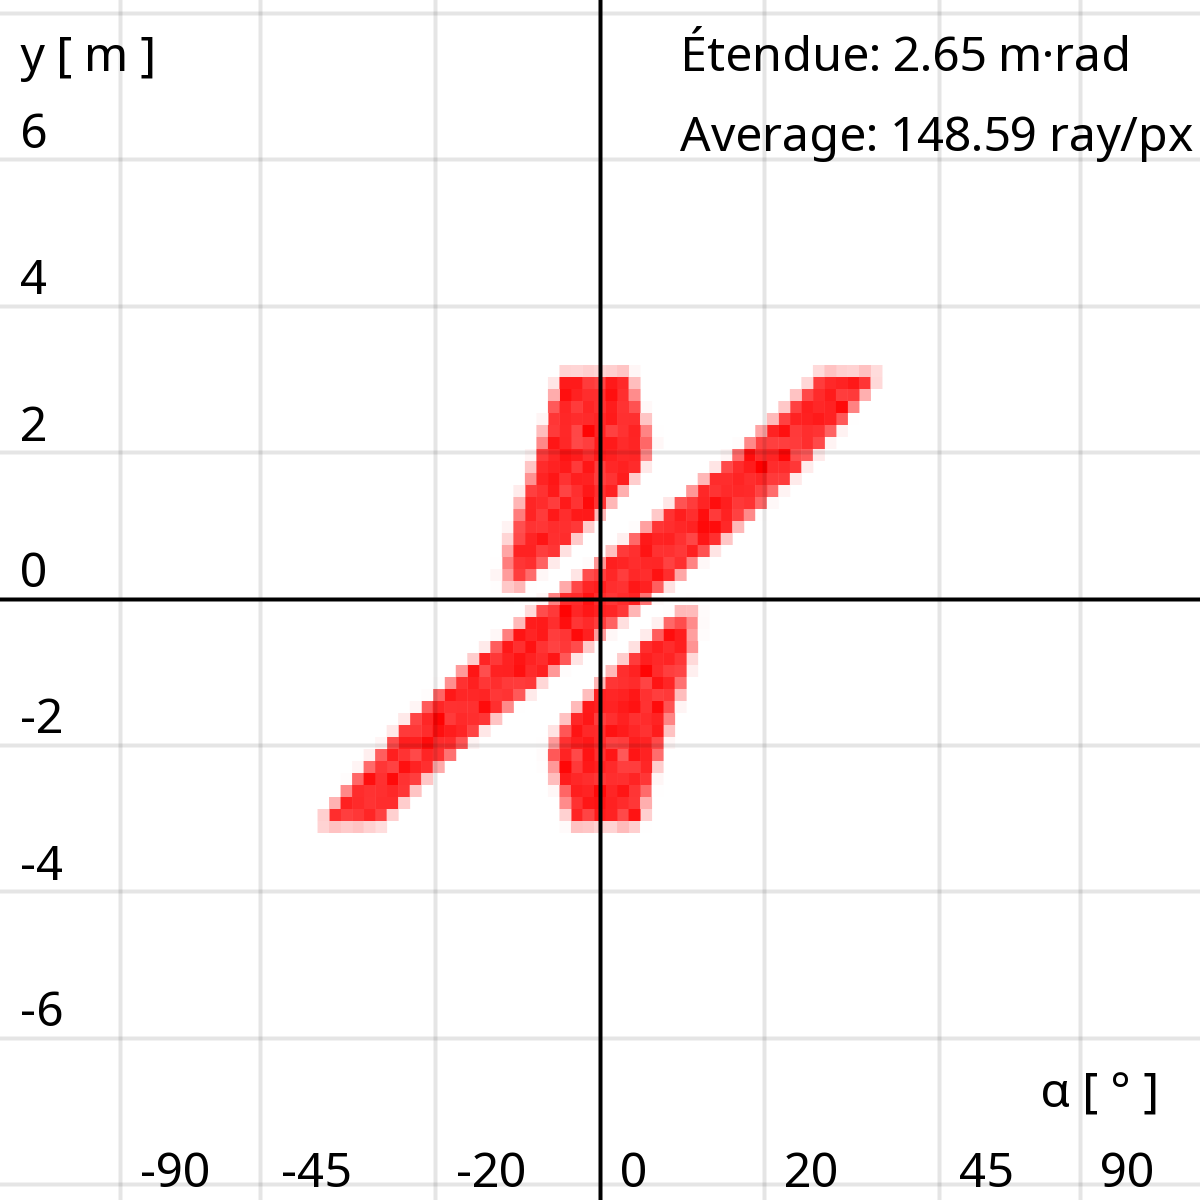
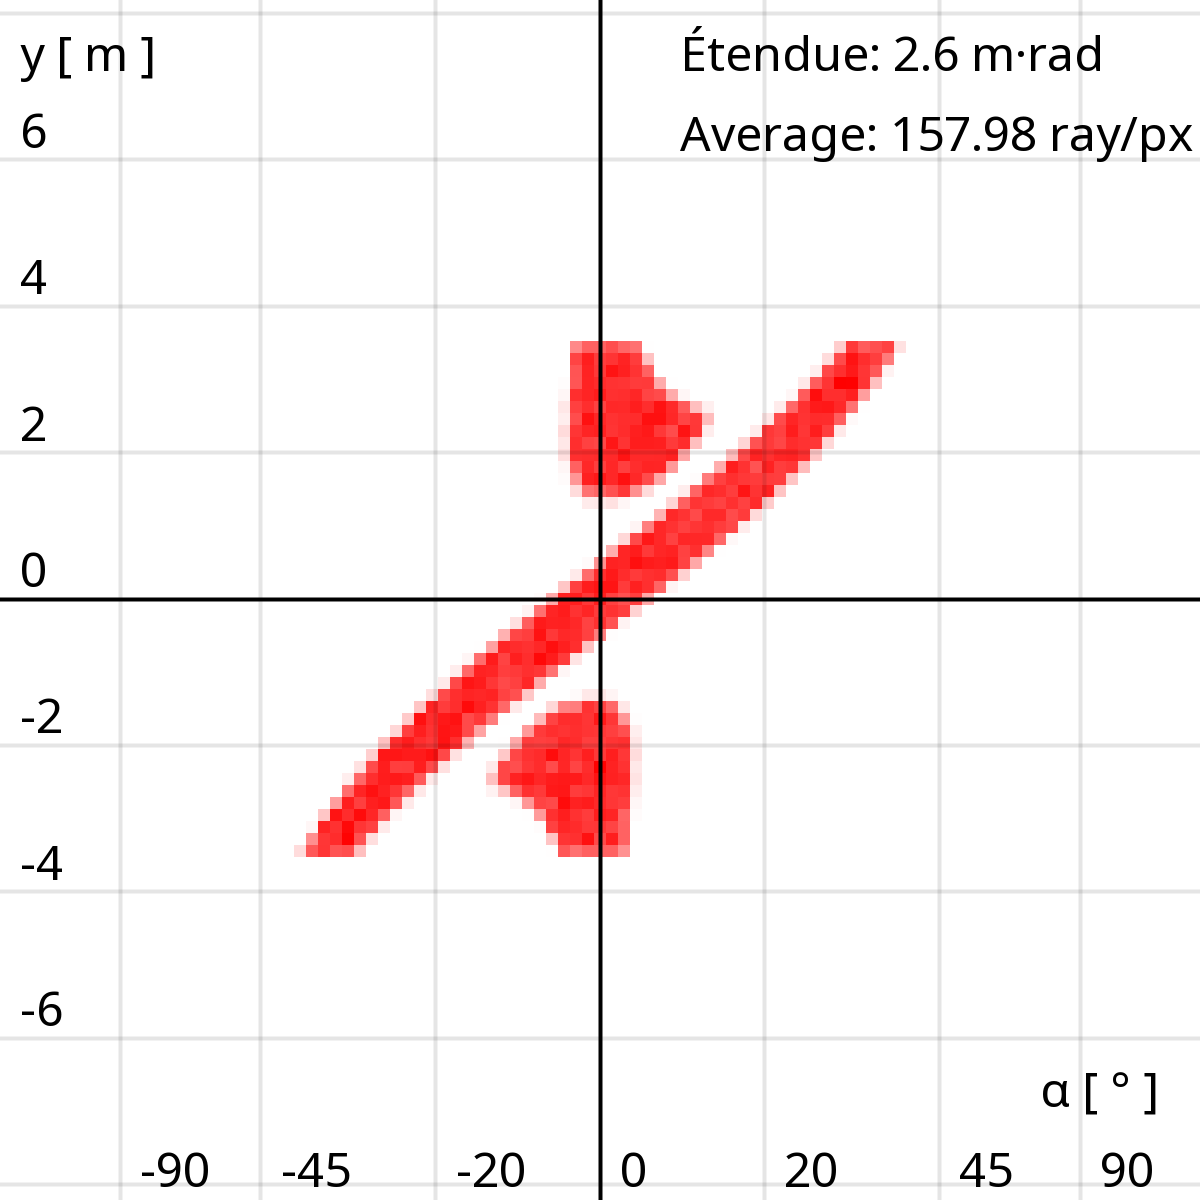
diskuze hotová

Changed region(s): [[0.2467, 0.2775, 0.7708, 0.74], [0.8017, 0.0308, 0.9558, 0.0617], [0.7708, 0.0925, 0.8633, 0.1233]]

diff --git a/chapters/diskuze.tex b/chapters/diskuze.tex
@@ -1,6 +1,6 @@
 \chapter{Diskuze}
 
-Celkově můžeme pozorovat, že vytvořená aplikace má několik nedostatků, které by se daly rozdělit do dvou hlavních kategorii. Vzhledem k cíli této práce, jímž je pouze ověřit praktičnost jim však nepřikládáme velkou váhu.
+Celkově můžeme pozorovat, že vytvořená aplikace má několik nedostatků, které by se daly rozdělit do dvou hlavních kategorii. Vzhledem k cíli této práce, kterýmžto je pouze ověřit použitelnost konceptu, jim však nepřikládáme velkou váhu.
 
 \section{Nedostatky návrhu aplikace}
 
@@ -14,23 +14,23 @@ V souvislosti s tím bylo též vhodné umožnit uživateli kromě změny pozice
 
 \section{Nedostatky implementace aplikace}
 
-Tato kategorie se zabývá problémy, které vyvstaly v průběhu vývoje aplikace. Mohou být způsobeny buďto limitacemi přímo programovacího jazyka \emph{Java} nebo neoptimálním řešením samotného autora aplikace.
+Tato kategorie se zabývá výpočetními chybami, které se týkají až hotové aplikace. Mohou být způsobeny buďto limitacemi přímo programovacího jazyka \emph{Java} nebo neoptimálním řešením samotného autora aplikace.
 
-První z nich je dobře viditelný na některých vizualizacích pf-diagramu. Specificky to jsou obr. \ref{fig:vysledky_1a_etendue.png} a \ref{fig:vysledky_1b_etendue.png}.
+První z chyb je dobře viditelná na některých vizualizacích pf-diagramu. Specificky to jsou obr. \ref{fig:vysledky_1a_etendue.png} a \ref{fig:vysledky_1b_etendue.png}. Nad i pod hlavní částí obrazce jsou viditelné nezřetelné čáry. Všimněme si, že podle zadání obou příkladů v související kapitole \fullref{sec:svetlovody} se celý zdroj světla nachází uvnitř reflektoru, ještě s mírnou rezervou. Ovšem paprsky, které jsou zmíněnými čárami znázorněny se zcela jistě nacházejí mimo světlovod. Jediné vysvětlení je, že při sledování chodu tyto paprsky nějakým způsobem prošly skrze zrcadlo, aniž by se odrazili.
 
+To je způsobeno kombinací několika důvodů. Tím prvním je čistě způsob implementace ray tracing procesu (podkapitola \fullref{sub:architekturaaplikace_simulacepaprsku}). V něm totiž při nalezení dalšího průsečíku program kontroluje, jestli není příliš blízko poslednímu známému bodu. To má za cíl zabránit dvojitému odrazu (tzn. paprsek se odrazí dvakrát od toho stejného zrcadla na stejném místě a vypadá to, jako kdyby jen prošel skrz). Dalo by se říci, že způsob jak zabránit chybám v simulaci sám vytvoří další chyby. Ovšem tento nový druh chyb je podstatně méně početný vyskytuje se jen ve specifických případech.
 
+Druhým důvodem jsou nepřesnosti v počítání s tzv. floating-point číselnými formáty.\src Kvůli nim nemůžeme v při sledování chodu paprsků jednoduše porovnat jestli poslední známý bod je shodný jako právě nalezený průsečík. To protože v mnoha případech není, i když čísla se liší jen o velmi malé zlomky. Proto se musíme uchýlit ke kontrolování vzdáleností těchto dvou bodů.
 
+Druhá chyba implementace programu se tentokrát týká výpočtu étendue. Ze \emph{zákona zachování étendue} (kapitola \fullref{sec:analyzasystemu}) vyplývá, že pro jeden a ten samý zdroj, nehledě na okolní optické prvky a volbu detekční přímky, bude étendue konstantní. Ovšem, jak je vidět na příkladech se světlovodem  (obr. \ref{fig:vysledky_1a_etendue.png} a \ref{fig:vysledky_1b_etendue.png}), ale i s parabolickým reflektorem (obr. \ref{fig:vysledky_2a_etendue.png}, \ref{fig:vysledky_2b_etendue.png} a \ref{fig:vysledky_2c_etendue.png}), námi vypočtené étendue tomu ne vždy odpovídá.
 
+Nepřesnost těchto hodnot je způsobena zvoleným způsobem výpočtu. Étendue počítáme jako plochu pf-diagramu, a ten zobrazujeme po jednotlivých pixelech. Pro lepší kvalitu výpočtu by bylo vhodné snížit velikost jednotlivých, ovšem to by vyžadovalo taktéž zvětšení počtu simulovaných paprsků, což by zase trvalo déle spočítat. V tomto případě tak bylo nutné najít kompromis mezi rychlostí a přesností výpočtu.
 
-Chci zmínit nepřesnosti co se týče floating-point arithmetics. To je vidět na obrázcích 34 a 37.
-
-Zdůraznit, že pro stejný zdroj (1.1 a 1.2 resp. 2.1, 2.2 a 2.3) by mělo etendue vycházet stejně, ale není tomu tak vždy + vysvětlení.
 
 \section{Celková užitečnost}
 
-I přes zmíněné nedostatky se aplikace prokázala jako užitečná
+I přes zmíněné nedostatky se aplikace prokázala jako užitečná. Jako příklad nám poslouží simulace z kapitoly \fullref{sec:parabolickereflektory}. Předpokládejme, že naším cílem soustředit co nejvíce světla ve směru osy paraboly. Pokud porovnáme pf-diagramy pro různé pozice ohnisek, je zřejmé že sám o sobě je pro nás nejlepší reflektor se zdrojem v ohnisku (obr. \ref{fig:vysledky_2a_scena.png}). A to protože centra odražených paprsků jsou přímo uprostřed pf-diagramu, tedy mají sklon blízký nule.
 
-Předpokládám, že vysvětlím, že pf-diagramu naznačuje, že konfigurace parabolického reflektoru "pod ohniskem" stojí za další prozkoumání.
+Ovšem pokud bychom měli možnost napravo od reflektoru umístit ještě spojnou čočku, z pf-diagramu zjistíme, že nejlepších výsledků dosáhneme pokud bude ohnisko posunuté doprava, neboli dovnitř reflektoru (obr. \ref{fig:vysledky_2b_scena.png}). A to z toho důvodu, že útvary odražených paprsků se posunou na stranu směrem ke zbytku paprsků. Takovýto tvar spojná čočka posouvá zpět směrem ke nulovému sklonu, ovšem i společně s odraženými paprsky posune i všechny ty neodražené. A tudíž ve výsledku celý systém soustředí více paprsků ve směru osy $x$. Takováto konfigurace by tedy stála za další prozkoumání.
 
-
-A napíšu, že celkové se tato vizualizace zdá být užitečnou. A nebylo by od věci udělat nějakou pořádnou aplikaci a ne jen takovýto demostrátor(?)
+Na užitečnosti aplikace se shodlo i několik odborníků zabývajících se návrhem nezobrazovací optiky.\src \hiddennote{\emph{*zde budu citovat email, nikoli obsah, pouze kdy byl poslán}}

diff --git a/chapters/materialametody/vymezeniproblemu.tex b/chapters/materialametody/vymezeniproblemu.tex
@@ -17,7 +17,7 @@ V souvislosti s tímto zjednodušením je nutné podotknout, že výsledky simul
 
 Zároveň zdůrazněme, že nebudeme nahrazovat \emph{plošný zdroj} světla \emph{bodovým}. Tato metoda je velmi typická pro zobrazovací optiku, ale v oblasti nezobrazovací optiky se příliš nepoužívá. Hlavním důvodem je velikost světelných zdrojů, která bývá v navrhovaných systémech zpravidla nezanedbatelná vůči velikosti celé soustavy.
 
-Dále se omezíme na studium makroskopických soustav (svítilna, světlomet). Budeme se zajímat především o situace, ve kterých se soustavou šíří velké množství paprsků (ideálně nekonečné). To je další rozdíl oproti zobrazovací optice, kde k pochopení funkce systému stačí znalost chodu maximálně nižší desítky parsků. Zároveň v takto velkých systémech se v podstatě neprojevují (resp. projevují, ale zanedbatelně) \emph{vlnové vlastnosti světla}, které proto ze simulace můžeme vypustit. Ve výsledku tedy budeme na světlo nahlížet pouze z pohledu \emph{paprskové optiky}, což by nebylo možné např. při zkoumání optických vláken, které se svými rozměry více přibližují vlnové délce použitého světla.
+Dále se omezíme na studium makroskopických soustav (svítilna, světlomet). Budeme se zajímat především o situace, ve kterých se soustavou šíří velké množství paprsků (ideálně nekonečné). To je další rozdíl oproti zobrazovací optice, kde k pochopení funkce systému stačí znalost chodu maximálně nižší desítky paprsků.\src Zároveň v takto velkých systémech se v podstatě neprojevují (resp. projevují, ale zanedbatelně) \emph{vlnové vlastnosti světla}, které proto ze simulace můžeme vypustit. Ve výsledku tedy budeme na světlo nahlížet pouze z pohledu \emph{paprskové optiky}, což by nebylo možné např. při zkoumání optických vláken, které se svými rozměry více přibližují vlnové délce použitého světla.
 
 Budeme předpokládat, že všechny paprsky mají stejný, \emph{elementární}, optický výkon. Optický výkon celého světelného zdroje je pak jasně dán pouhým počtem paprsků, které vyzařuje.
 

diff --git a/chapters/materialametody/analyzasystemu.tex b/chapters/materialametody/analyzasystemu.tex
@@ -1,4 +1,5 @@
 \section{Analýza systému}
+\label{sec:analyzasystemu}
 
 \subsection{Vztažná soustava}
 
@@ -186,9 +187,7 @@ Např. na následujícím obrázku je vidět, že přímo u zdroje jsou sice vel
 
 S touto znalostí můžeme odvodit základní informace pro některé optické systémy. Jestliže je součin úhlového a prostorového rozsahu konstantní, lze odvodit, že úhlový rozsah je nepřímo úměrný rozsahu prostorovému. 
 
-Na příkladu již několikrát zmíněného světlovodu (z kapitoly \fullref{sec:vymezeniproblemu}) to znamená, že čím větší je výstupní otvor světlovodu, tím menší rozptyl paprsků budeme pozorovat. To je patrné i na následujících obrázcích.
-
-\fixme{tohle naznačuje globální rozptyl, ale etendue počítá s lokálním}
+Na příkladu již několikrát zmíněného světlovodu (z kapitoly \fullref{sec:vymezeniproblemu}) to znamená, že čím větší je výstupní otvor světlovodu, tím menší lokální rozptyl paprsků budeme pozorovat. To je částečně patrné i na následujících obrázcích.
 
 \doubleimage{
     \image[scale=0.15]{analyzasystemu_priklad_svetlovod_uzky.png}{Jednoduchý 2D světlovod s užším hrdlem tvořený dvěma zrcadly (modrá) s úsečkovým zdrojem světla a znázorněným světelným kuželem (červená)}

diff --git a/chapters/materialametody/architekturaaplikace.tex b/chapters/materialametody/architekturaaplikace.tex
@@ -1,6 +1,6 @@
 \section{Architektura a funkce aplikace}
 
-V této kapitole nejprve obecně popíšeme postup použití aplikace a poté rozebereme jednotlivé fáze. % Celý proces popíšeme na příkladu světlometu uvedeném v kapitole \fullref{sec:vymezeniproblemu}.
+V této kapitole nejprve obecně popíšeme postup použití aplikace a poté rozebereme jednotlivé fáze.
 
 Zmiňme, že celý zdrojový kód programu uveden v je \emph{příloze č. 1} této práce. Pro potřeby této práce myslíme pod slovem \emph{třída} (anglicky \emph{class}) spíše \emph{Javovský} pojem \emph{typ} (anglicky \emph{type}). Ten zahrnuje jednak samotné \texttt{class}, ale i \texttt{interface} a \texttt{enum}.\src
 
@@ -158,6 +158,7 @@ Interactors.reflecting(
 
 
 \subsection{Simulace paprsků}
+\label{sub:architekturaaplikace_simulacepaprsku}
 
 \fixme{Vlastními slovy}
 
